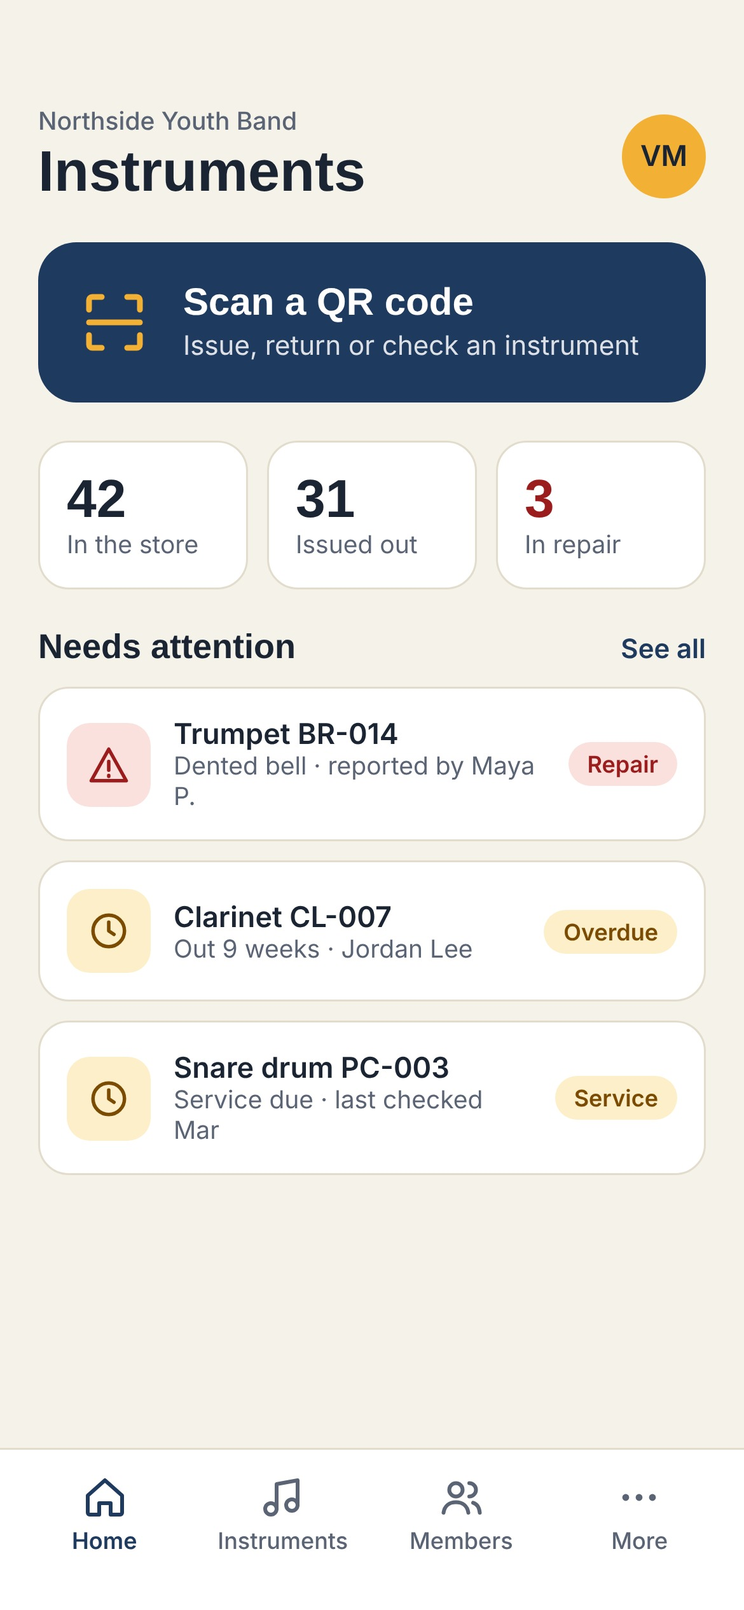
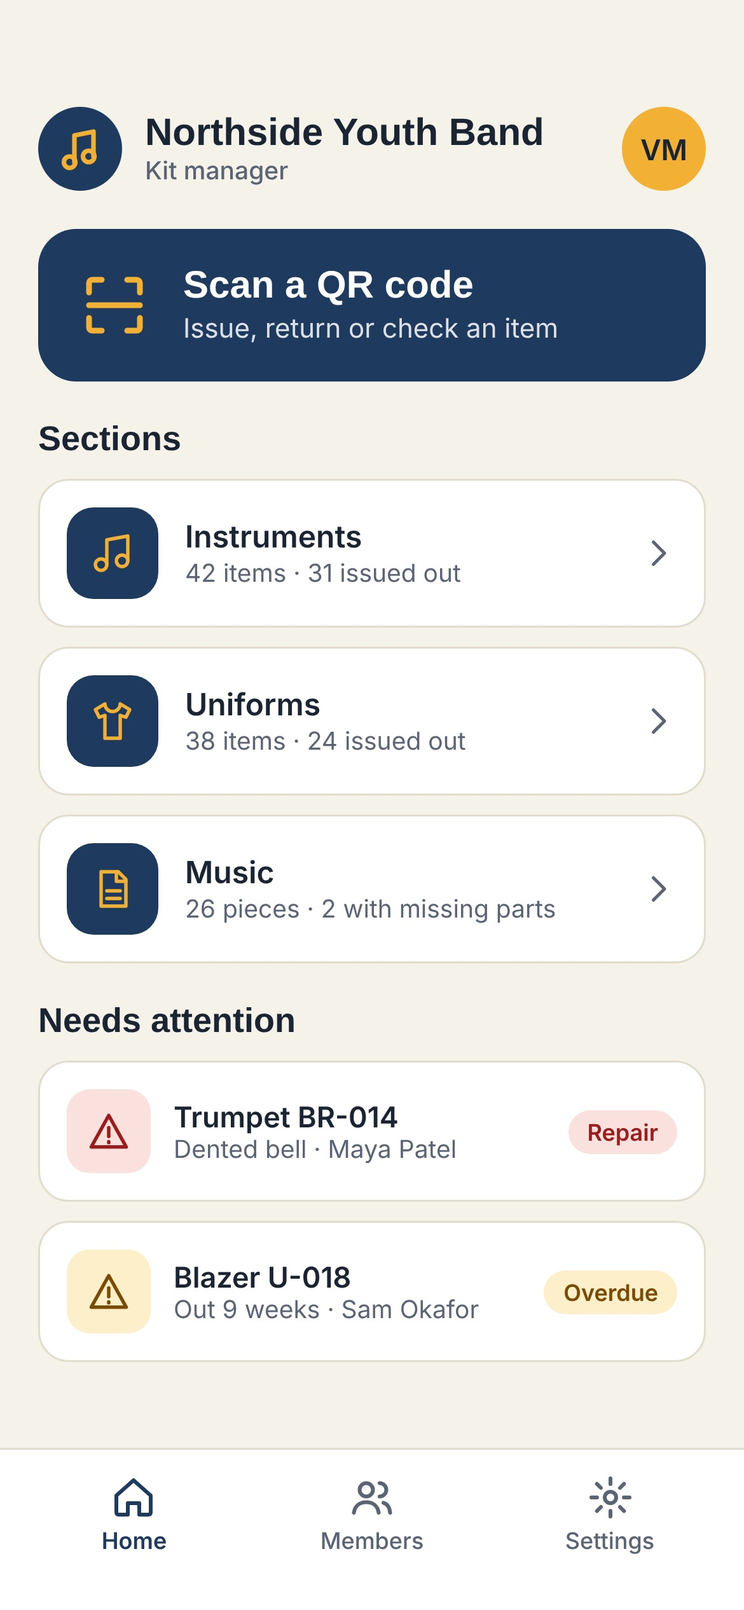
Add Uniforms, Music and Settings mockups
Home now lists the sections and shows the band name and logo. Settings
has band name, logo upload and per-section toggles.

Claude-Session: https://claude.ai/code/session_01YGQcCAHzqe7VMCLBa3f78c

diff --git a/mockups/html/1-home.html b/mockups/html/1-home.html
@@ -2,80 +2,36 @@
 
 <div style="width:390px;height:844px;box-sizing:border-box;display:flex;flex-direction:column;background:#F5F2EA;font-family:Inter,system-ui,sans-serif;color:#1B2433;overflow:hidden">
 <div style="flex:1;min-height:0;padding:56px 20px 0;display:flex;flex-direction:column;gap:20px">
-<div style="display:flex;justify-content:space-between;align-items:center">
-<div>
-<div style="font-size:13px;color:#5B6475;font-weight:500">Northside Youth Band</div>
-<h1 style="margin:2px 0 0;font-family:'Space Grotesk',sans-serif;font-size:30px;line-height:1.1;font-weight:700">Instruments</h1>
+<div style="display:flex;align-items:center;gap:12px">
+<svg width="44" height="44" viewBox="0 0 44 44" role="img" aria-label="Band logo placeholder"><circle cx="22" cy="22" r="22" fill="#1F3A5F"/><path d="M19 29V15l10-2v13" fill="none" stroke="#F2B134" stroke-width="2.4" stroke-linecap="round" stroke-linejoin="round"/><circle cx="16.5" cy="29" r="3" fill="none" stroke="#F2B134" stroke-width="2.4"/><circle cx="26.5" cy="26" r="3" fill="none" stroke="#F2B134" stroke-width="2.4"/></svg>
+<div style="flex:1">
+<div style="font-family:'Space Grotesk',sans-serif;font-size:20px;line-height:1.15;font-weight:700">Northside Youth Band</div>
+<div style="font-size:13px;color:#5B6475;font-weight:500">Kit manager</div>
 </div>
 <div style="width:44px;height:44px;border-radius:22px;background:#F2B134;display:flex;align-items:center;justify-content:center;font-weight:600;font-size:15px">VM</div>
 </div>
-<a href="2-scan.html" style="display:flex;align-items:center;gap:16px;background:#1F3A5F;color:#fff;border-radius:20px;padding:20px;min-height:44px">
+<a href="2-scan.html" style="display:flex;align-items:center;gap:16px;background:#1F3A5F;color:#fff;border-radius:20px;padding:18px 20px;min-height:44px">
 <svg width="40" height="40" viewBox="0 0 24 24" fill="none" stroke="#F2B134" stroke-width="1.8" stroke-linecap="round" stroke-linejoin="round" aria-hidden="true"><path d="M4 8V5a1 1 0 0 1 1-1h3M16 4h3a1 1 0 0 1 1 1v3M20 16v3a1 1 0 0 1-1 1h-3M8 20H5a1 1 0 0 1-1-1v-3"/><path d="M4 12h16"/></svg>
 <div style="flex:1">
 <div style="font-family:'Space Grotesk',sans-serif;font-size:20px;font-weight:700">Scan a QR code</div>
-<div style="font-size:14px;opacity:.85;margin-top:2px">Issue, return or check an instrument</div>
+<div style="font-size:14px;opacity:.85;margin-top:2px">Issue, return or check an item</div>
 </div>
 </a>
-<div style="display:grid;grid-template-columns:repeat(3,minmax(0,1fr));gap:10px">
-<div style="background:#fff;border:1px solid #E2DCCD;border-radius:16px;padding:14px">
-<div style="font-family:'Space Grotesk',sans-serif;font-size:28px;font-weight:700">42</div>
-<div style="font-size:13px;color:#5B6475">In the store</div>
-</div>
-<div style="background:#fff;border:1px solid #E2DCCD;border-radius:16px;padding:14px">
-<div style="font-family:'Space Grotesk',sans-serif;font-size:28px;font-weight:700">31</div>
-<div style="font-size:13px;color:#5B6475">Issued out</div>
-</div>
-<div style="background:#fff;border:1px solid #E2DCCD;border-radius:16px;padding:14px">
-<div style="font-family:'Space Grotesk',sans-serif;font-size:28px;font-weight:700;color:#9B1C1C">3</div>
-<div style="font-size:13px;color:#5B6475">In repair</div>
-</div>
+<div style="display:flex;flex-direction:column;gap:10px">
+<h2 style="margin:0;font-family:'Space Grotesk',sans-serif;font-size:18px;font-weight:700">Sections</h2>
+<a href="3-instrument-record.html" style="display:flex;align-items:center;gap:14px;background:#fff;border:1px solid #E2DCCD;border-radius:16px;padding:14px;min-height:44px"><div style="width:48px;height:48px;border-radius:14px;background:#1F3A5F;display:flex;align-items:center;justify-content:center"><svg width="24" height="24" viewBox="0 0 24 24" fill="none" stroke="#F2B134" stroke-width="1.8" stroke-linecap="round" stroke-linejoin="round" aria-hidden="true"><path d="M9 18V5l11-2v13"/><circle cx="6" cy="18" r="3"/><circle cx="17" cy="16" r="3"/></svg></div><div style="flex:1"><div style="font-weight:600;font-size:16px">Instruments</div><div style="font-size:13px;color:#5B6475;margin-top:2px">42 items · 31 issued out</div></div><svg width="20" height="20" viewBox="0 0 24 24" fill="none" stroke="#5B6475" stroke-width="2" stroke-linecap="round" stroke-linejoin="round" aria-hidden="true"><path d="M9 5l7 7-7 7"/></svg></a>
+<a href="5-uniforms.html" style="display:flex;align-items:center;gap:14px;background:#fff;border:1px solid #E2DCCD;border-radius:16px;padding:14px;min-height:44px"><div style="width:48px;height:48px;border-radius:14px;background:#1F3A5F;display:flex;align-items:center;justify-content:center"><svg width="24" height="24" viewBox="0 0 24 24" fill="none" stroke="#F2B134" stroke-width="1.8" stroke-linecap="round" stroke-linejoin="round" aria-hidden="true"><path d="M8 3L3 6l2 4 3-1v12h8V9l3 1 2-4-5-3a4 4 0 0 1-8 0z"/></svg></div><div style="flex:1"><div style="font-weight:600;font-size:16px">Uniforms</div><div style="font-size:13px;color:#5B6475;margin-top:2px">38 items · 24 issued out</div></div><svg width="20" height="20" viewBox="0 0 24 24" fill="none" stroke="#5B6475" stroke-width="2" stroke-linecap="round" stroke-linejoin="round" aria-hidden="true"><path d="M9 5l7 7-7 7"/></svg></a>
+<a href="6-music.html" style="display:flex;align-items:center;gap:14px;background:#fff;border:1px solid #E2DCCD;border-radius:16px;padding:14px;min-height:44px"><div style="width:48px;height:48px;border-radius:14px;background:#1F3A5F;display:flex;align-items:center;justify-content:center"><svg width="24" height="24" viewBox="0 0 24 24" fill="none" stroke="#F2B134" stroke-width="1.8" stroke-linecap="round" stroke-linejoin="round" aria-hidden="true"><path d="M6 3h9l4 4v14H6z"/><path d="M14 3v5h5M9 13h7M9 17h7"/></svg></div><div style="flex:1"><div style="font-weight:600;font-size:16px">Music</div><div style="font-size:13px;color:#5B6475;margin-top:2px">26 pieces · 2 with missing parts</div></div><svg width="20" height="20" viewBox="0 0 24 24" fill="none" stroke="#5B6475" stroke-width="2" stroke-linecap="round" stroke-linejoin="round" aria-hidden="true"><path d="M9 5l7 7-7 7"/></svg></a>
 </div>
 <div style="display:flex;flex-direction:column;gap:10px">
-<div style="display:flex;justify-content:space-between;align-items:baseline">
 <h2 style="margin:0;font-family:'Space Grotesk',sans-serif;font-size:18px;font-weight:700">Needs attention</h2>
-<span style="font-size:14px;font-weight:600;color:#1F3A5F">See all</span>
-</div>
-<a href="3-instrument-record.html" style="display:flex;align-items:center;gap:12px;background:#fff;border:1px solid #E2DCCD;border-radius:16px;padding:14px;min-height:44px">
-<div style="width:44px;height:44px;border-radius:12px;background:#FBE1DE;display:flex;align-items:center;justify-content:center">
-<svg width="22" height="22" viewBox="0 0 24 24" fill="none" stroke="#9B1C1C" stroke-width="2" stroke-linecap="round" stroke-linejoin="round" aria-hidden="true"><path d="M12 3l10 18H2z"/><path d="M12 10v5M12 18v.5"/></svg>
-</div>
-<div style="flex:1">
-<div style="font-weight:600;font-size:15px">Trumpet BR-014</div>
-<div style="font-size:13px;color:#5B6475">Dented bell · reported by Maya P.</div>
-</div>
-<span style="font-size:12px;font-weight:600;color:#9B1C1C;background:#FBE1DE;border-radius:999px;padding:4px 10px">Repair</span>
-</a>
-<div style="display:flex;align-items:center;gap:12px;background:#fff;border:1px solid #E2DCCD;border-radius:16px;padding:14px;min-height:44px">
-<div style="width:44px;height:44px;border-radius:12px;background:#FDEFC9;display:flex;align-items:center;justify-content:center">
-<svg width="22" height="22" viewBox="0 0 24 24" fill="none" stroke="#7A4B00" stroke-width="2" stroke-linecap="round" stroke-linejoin="round" aria-hidden="true"><circle cx="12" cy="12" r="9"/><path d="M12 7v5l3 2"/></svg>
-</div>
-<div style="flex:1">
-<div style="font-weight:600;font-size:15px">Clarinet CL-007</div>
-<div style="font-size:13px;color:#5B6475">Out 9 weeks · Jordan Lee</div>
-</div>
-<span style="font-size:12px;font-weight:600;color:#7A4B00;background:#FDEFC9;border-radius:999px;padding:4px 10px">Overdue</span>
-</div>
-<div style="display:flex;align-items:center;gap:12px;background:#fff;border:1px solid #E2DCCD;border-radius:16px;padding:14px;min-height:44px">
-<div style="width:44px;height:44px;border-radius:12px;background:#FDEFC9;display:flex;align-items:center;justify-content:center">
-<svg width="22" height="22" viewBox="0 0 24 24" fill="none" stroke="#7A4B00" stroke-width="2" stroke-linecap="round" stroke-linejoin="round" aria-hidden="true"><circle cx="12" cy="12" r="9"/><path d="M12 7v5l3 2"/></svg>
-</div>
-<div style="flex:1">
-<div style="font-weight:600;font-size:15px">Snare drum PC-003</div>
-<div style="font-size:13px;color:#5B6475">Service due · last checked Mar</div>
-</div>
-<span style="font-size:12px;font-weight:600;color:#7A4B00;background:#FDEFC9;border-radius:999px;padding:4px 10px">Service</span>
-</div>
-</div>
-</div>
+<a href="3-instrument-record.html" style="display:flex;align-items:center;gap:12px;background:#fff;border:1px solid #E2DCCD;border-radius:16px;padding:14px;min-height:44px"><div style="width:44px;height:44px;border-radius:12px;background:#FBE1DE;display:flex;align-items:center;justify-content:center"><svg width="22" height="22" viewBox="0 0 24 24" fill="none" stroke="#9B1C1C" stroke-width="2" stroke-linecap="round" stroke-linejoin="round" aria-hidden="true"><path d="M12 3l10 18H2z"/><path d="M12 10v5M12 18v.5"/></svg></div><div style="flex:1"><div style="font-weight:600;font-size:15px">Trumpet BR-014</div><div style="font-size:13px;color:#5B6475">Dented bell · Maya Patel</div></div><span style="font-size:12px;font-weight:600;color:#9B1C1C;background:#FBE1DE;border-radius:999px;padding:4px 10px">Repair</span></a>
+<a href="5-uniforms.html" style="display:flex;align-items:center;gap:12px;background:#fff;border:1px solid #E2DCCD;border-radius:16px;padding:14px;min-height:44px"><div style="width:44px;height:44px;border-radius:12px;background:#FDEFC9;display:flex;align-items:center;justify-content:center"><svg width="22" height="22" viewBox="0 0 24 24" fill="none" stroke="#7A4B00" stroke-width="2" stroke-linecap="round" stroke-linejoin="round" aria-hidden="true"><path d="M12 3l10 18H2z"/><path d="M12 10v5M12 18v.5"/></svg></div><div style="flex:1"><div style="font-weight:600;font-size:15px">Blazer U-018</div><div style="font-size:13px;color:#5B6475">Out 9 weeks · Sam Okafor</div></div><span style="font-size:12px;font-weight:600;color:#7A4B00;background:#FDEFC9;border-radius:999px;padding:4px 10px">Overdue</span></a>
+</div></div>
 <nav style="display:flex;border-top:1px solid #E2DCCD;background:#fff;padding:8px 8px 24px">
-<a href="1-home.html" style="flex:1;min-height:52px;display:flex;flex-direction:column;align-items:center;justify-content:center;gap:3px;color:#1F3A5F;font-size:12px;font-weight:600">
-<svg width="24" height="24" viewBox="0 0 24 24" fill="none" stroke="currentColor" stroke-width="2" stroke-linecap="round" stroke-linejoin="round" aria-hidden="true"><path d="M3 11l9-8 9 8v9a1 1 0 0 1-1 1h-5v-6H9v6H4a1 1 0 0 1-1-1z"/></svg>Home</a>
-<a href="3-instrument-record.html" style="flex:1;min-height:52px;display:flex;flex-direction:column;align-items:center;justify-content:center;gap:3px;color:#5B6475;font-size:12px;font-weight:500">
-<svg width="24" height="24" viewBox="0 0 24 24" fill="none" stroke="currentColor" stroke-width="2" stroke-linecap="round" stroke-linejoin="round" aria-hidden="true"><path d="M9 18V5l11-2v13"/><circle cx="6" cy="18" r="3"/><circle cx="17" cy="16" r="3"/></svg>Instruments</a>
-<a href="4-issue-to-member.html" style="flex:1;min-height:52px;display:flex;flex-direction:column;align-items:center;justify-content:center;gap:3px;color:#5B6475;font-size:12px;font-weight:500">
-<svg width="24" height="24" viewBox="0 0 24 24" fill="none" stroke="currentColor" stroke-width="2" stroke-linecap="round" stroke-linejoin="round" aria-hidden="true"><circle cx="9" cy="8" r="3.5"/><path d="M2.5 20c.5-3.5 3-5.5 6.5-5.5s6 2 6.5 5.5"/><path d="M16 4.5a3.5 3.5 0 0 1 0 7M18 14.8c2 .6 3.2 2.4 3.5 5.2"/></svg>Members</a>
-<div style="flex:1;min-height:52px;display:flex;flex-direction:column;align-items:center;justify-content:center;gap:3px;color:#5B6475;font-size:12px;font-weight:500">
-<svg width="24" height="24" viewBox="0 0 24 24" fill="currentColor" aria-hidden="true"><circle cx="5" cy="12" r="1.8"/><circle cx="12" cy="12" r="1.8"/><circle cx="19" cy="12" r="1.8"/></svg>More</div>
+<a href="1-home.html" style="flex:1;min-height:52px;display:flex;flex-direction:column;align-items:center;justify-content:center;gap:3px;color:#1F3A5F;font-size:12px;font-weight:600"><svg width="24" height="24" viewBox="0 0 24 24" fill="none" stroke="currentColor" stroke-width="2" stroke-linecap="round" stroke-linejoin="round" aria-hidden="true"><path d="M3 11l9-8 9 8v9a1 1 0 0 1-1 1h-5v-6H9v6H4a1 1 0 0 1-1-1z"/></svg>Home</a>
+<a href="4-issue-to-member.html" style="flex:1;min-height:52px;display:flex;flex-direction:column;align-items:center;justify-content:center;gap:3px;color:#5B6475;font-size:12px;font-weight:500"><svg width="24" height="24" viewBox="0 0 24 24" fill="none" stroke="currentColor" stroke-width="2" stroke-linecap="round" stroke-linejoin="round" aria-hidden="true"><circle cx="9" cy="8" r="3.5"/><path d="M2.5 20c.5-3.5 3-5.5 6.5-5.5s6 2 6.5 5.5"/><path d="M16 4.5a3.5 3.5 0 0 1 0 7M18 14.8c2 .6 3.2 2.4 3.5 5.2"/></svg>Members</a>
+<a href="7-settings.html" style="flex:1;min-height:52px;display:flex;flex-direction:column;align-items:center;justify-content:center;gap:3px;color:#5B6475;font-size:12px;font-weight:500"><svg width="24" height="24" viewBox="0 0 24 24" fill="none" stroke="currentColor" stroke-width="2" stroke-linecap="round" stroke-linejoin="round" aria-hidden="true"><circle cx="12" cy="12" r="3"/><path d="M12 2v3M12 19v3M2 12h3M19 12h3M4.9 4.9l2.1 2.1M17 17l2.1 2.1M4.9 19.1L7 17M17 7l2.1-2.1"/></svg>Settings</a>
 </nav>
 </div>
 </body></html>

diff --git a/mockups/html/7-settings.html b/mockups/html/7-settings.html
@@ -1,0 +1,40 @@
+<!doctype html><html><head><meta charset="utf-8"><link rel="preconnect" href="https://fonts.googleapis.com"><link href="https://fonts.googleapis.com/css2?family=Inter:wght@400;500;600&family=Space+Grotesk:wght@500;700&display=swap" rel="stylesheet"><style>body{margin:0}a{color:inherit;text-decoration:none}</style></head><body>
+
+<div style="width:390px;height:844px;box-sizing:border-box;display:flex;flex-direction:column;background:#F5F2EA;font-family:Inter,system-ui,sans-serif;color:#1B2433;overflow:hidden">
+<div style="flex:1;min-height:0;padding:56px 20px 0;display:flex;flex-direction:column;gap:16px">
+<h1 style="margin:0;font-family:'Space Grotesk',sans-serif;font-size:30px;line-height:1.1;font-weight:700">Settings</h1>
+<div style="background:#fff;border:1px solid #E2DCCD;border-radius:16px;padding:16px;display:flex;flex-direction:column;gap:14px">
+<div style="font-family:'Space Grotesk',sans-serif;font-size:16px;font-weight:700">Your band</div>
+<div>
+<label for="bandname" style="display:block;font-size:13px;font-weight:600;color:#5B6475;margin-bottom:6px">Band name</label>
+<input id="bandname" type="text" value="Northside Youth Band" style="width:100%;box-sizing:border-box;min-height:48px;border:1px solid #C9C2B0;border-radius:12px;padding:0 14px;font:500 16px Inter,system-ui,sans-serif;color:#1B2433;background:#fff">
+</div>
+<div>
+<div style="font-size:13px;font-weight:600;color:#5B6475;margin-bottom:6px">Band logo</div>
+<div style="display:flex;align-items:center;gap:14px">
+<div style="width:64px;height:64px;border-radius:32px;background:#F5F2EA;border:1px solid #E2DCCD;display:flex;align-items:center;justify-content:center"><svg width="44" height="44" viewBox="0 0 44 44" role="img" aria-label="Band logo placeholder"><circle cx="22" cy="22" r="22" fill="#1F3A5F"/><path d="M19 29V15l10-2v13" fill="none" stroke="#F2B134" stroke-width="2.4" stroke-linecap="round" stroke-linejoin="round"/><circle cx="16.5" cy="29" r="3" fill="none" stroke="#F2B134" stroke-width="2.4"/><circle cx="26.5" cy="26" r="3" fill="none" stroke="#F2B134" stroke-width="2.4"/></svg></div>
+<div style="display:flex;gap:8px">
+<button style="min-height:44px;padding:0 16px;border-radius:12px;border:0;background:#1F3A5F;color:#fff;font:600 14px Inter,system-ui,sans-serif">Upload logo</button>
+<button style="min-height:44px;padding:0 14px;border-radius:12px;border:1px solid #C9C2B0;background:#fff;color:#1B2433;font:600 14px Inter,system-ui,sans-serif">Remove</button>
+</div>
+</div>
+<div style="font-size:12px;color:#5B6475;margin-top:8px">PNG or JPG. A square image works best.</div>
+</div>
+</div>
+<div style="background:#fff;border:1px solid #E2DCCD;border-radius:16px;padding:16px 16px 6px">
+<div style="font-family:'Space Grotesk',sans-serif;font-size:16px;font-weight:700">Sections to track</div>
+<div style="font-size:13px;color:#5B6475;margin:4px 0 6px;line-height:1.4">Switch off anything you don't need. Changes save automatically, and turning one back on brings its records back.</div>
+<div style="display:flex;align-items:center;gap:12px;padding:10px 0;border-bottom:1px solid #EEE9DC"><div style="flex:1"><div style="font-size:15px;font-weight:600">Instruments</div><div style="font-size:13px;color:#5B6475;margin-top:2px">QR codes, issuing, repairs</div></div><button role="switch" aria-checked="true" aria-label="Show Instruments" style="width:60px;height:44px;border:0;background:none;padding:0;display:flex;align-items:center;justify-content:center"><span style="position:relative;display:block;width:52px;height:32px;border-radius:16px;background:#1F3A5F"><span style="position:absolute;top:3px;right:3px;width:26px;height:26px;border-radius:13px;background:#fff"></span></span></button></div>
+<div style="display:flex;align-items:center;gap:12px;padding:10px 0;border-bottom:1px solid #EEE9DC"><div style="flex:1"><div style="font-size:15px;font-weight:600">Uniforms</div><div style="font-size:13px;color:#5B6475;margin-top:2px">Sizes, issuing, returns</div></div><button role="switch" aria-checked="true" aria-label="Show Uniforms" style="width:60px;height:44px;border:0;background:none;padding:0;display:flex;align-items:center;justify-content:center"><span style="position:relative;display:block;width:52px;height:32px;border-radius:16px;background:#1F3A5F"><span style="position:absolute;top:3px;right:3px;width:26px;height:26px;border-radius:13px;background:#fff"></span></span></button></div>
+<div style="display:flex;align-items:center;gap:12px;padding:10px 0;border-bottom:1px solid #EEE9DC"><div style="flex:1"><div style="font-size:15px;font-weight:600">Music</div><div style="font-size:13px;color:#5B6475;margin-top:2px">Library, parts, folders</div></div><button role="switch" aria-checked="true" aria-label="Show Music" style="width:60px;height:44px;border:0;background:none;padding:0;display:flex;align-items:center;justify-content:center"><span style="position:relative;display:block;width:52px;height:32px;border-radius:16px;background:#1F3A5F"><span style="position:absolute;top:3px;right:3px;width:26px;height:26px;border-radius:13px;background:#fff"></span></span></button></div>
+<div style="display:flex;align-items:center;gap:12px;padding:10px 0"><div style="flex:1"><div style="font-size:15px;font-weight:600">Accessories and equipment</div><div style="font-size:13px;color:#5B6475;margin-top:2px">Stands, cases, amps, drum kit</div></div><button role="switch" aria-checked="false" aria-label="Show Accessories and equipment" style="width:60px;height:44px;border:0;background:none;padding:0;display:flex;align-items:center;justify-content:center"><span style="position:relative;display:block;width:52px;height:32px;border-radius:16px;background:#6B7280"><span style="position:absolute;top:3px;left:3px;width:26px;height:26px;border-radius:13px;background:#fff"></span></span></button></div>
+</div>
+
+</div>
+<nav style="display:flex;border-top:1px solid #E2DCCD;background:#fff;padding:8px 8px 24px">
+<a href="1-home.html" style="flex:1;min-height:52px;display:flex;flex-direction:column;align-items:center;justify-content:center;gap:3px;color:#5B6475;font-size:12px;font-weight:500"><svg width="24" height="24" viewBox="0 0 24 24" fill="none" stroke="currentColor" stroke-width="2" stroke-linecap="round" stroke-linejoin="round" aria-hidden="true"><path d="M3 11l9-8 9 8v9a1 1 0 0 1-1 1h-5v-6H9v6H4a1 1 0 0 1-1-1z"/></svg>Home</a>
+<a href="4-issue-to-member.html" style="flex:1;min-height:52px;display:flex;flex-direction:column;align-items:center;justify-content:center;gap:3px;color:#5B6475;font-size:12px;font-weight:500"><svg width="24" height="24" viewBox="0 0 24 24" fill="none" stroke="currentColor" stroke-width="2" stroke-linecap="round" stroke-linejoin="round" aria-hidden="true"><circle cx="9" cy="8" r="3.5"/><path d="M2.5 20c.5-3.5 3-5.5 6.5-5.5s6 2 6.5 5.5"/><path d="M16 4.5a3.5 3.5 0 0 1 0 7M18 14.8c2 .6 3.2 2.4 3.5 5.2"/></svg>Members</a>
+<a href="7-settings.html" style="flex:1;min-height:52px;display:flex;flex-direction:column;align-items:center;justify-content:center;gap:3px;color:#1F3A5F;font-size:12px;font-weight:600"><svg width="24" height="24" viewBox="0 0 24 24" fill="none" stroke="currentColor" stroke-width="2" stroke-linecap="round" stroke-linejoin="round" aria-hidden="true"><circle cx="12" cy="12" r="3"/><path d="M12 2v3M12 19v3M2 12h3M19 12h3M4.9 4.9l2.1 2.1M17 17l2.1 2.1M4.9 19.1L7 17M17 7l2.1-2.1"/></svg>Settings</a>
+</nav>
+</div>
+</body></html>

diff --git a/mockups/html/6-music.html b/mockups/html/6-music.html
@@ -1,0 +1,22 @@
+<!doctype html><html><head><meta charset="utf-8"><link rel="preconnect" href="https://fonts.googleapis.com"><link href="https://fonts.googleapis.com/css2?family=Inter:wght@400;500;600&family=Space+Grotesk:wght@500;700&display=swap" rel="stylesheet"><style>body{margin:0}a{color:inherit;text-decoration:none}</style></head><body>
+
+<div style="width:390px;height:844px;box-sizing:border-box;display:flex;flex-direction:column;background:#F5F2EA;font-family:Inter,system-ui,sans-serif;color:#1B2433;overflow:hidden">
+<div style="flex:1;min-height:0;padding:56px 20px 0;display:flex;flex-direction:column;gap:14px"><div style="display:flex;align-items:center;gap:12px">
+<a href="1-home.html" aria-label="Back" style="width:44px;height:44px;border-radius:22px;background:#fff;border:1px solid #E2DCCD;display:flex;align-items:center;justify-content:center"><svg width="22" height="22" viewBox="0 0 24 24" fill="none" stroke="#1B2433" stroke-width="2" stroke-linecap="round" stroke-linejoin="round" aria-hidden="true"><path d="M15 5l-7 7 7 7"/></svg></a>
+<h1 style="margin:0;font-family:'Space Grotesk',sans-serif;font-size:26px;font-weight:700">Music</h1></div>
+<div style="display:flex;align-items:center;gap:10px;background:#fff;border:1px solid #C9C2B0;border-radius:14px;padding:0 14px;min-height:48px"><svg width="20" height="20" viewBox="0 0 24 24" fill="none" stroke="#5B6475" stroke-width="2" stroke-linecap="round" aria-hidden="true"><circle cx="11" cy="11" r="7"/><path d="M20 20l-4-4"/></svg><span style="font-size:15px;color:#5B6475">Search title or composer</span></div>
+<div style="display:flex;gap:8px">
+<span style="font-size:14px;font-weight:600;color:#fff;background:#1F3A5F;border-radius:999px;padding:0 16px;min-height:44px;box-sizing:border-box;display:inline-flex;align-items:center">Library 26</span>
+<span style="font-size:14px;font-weight:500;color:#1B2433;background:#fff;border:1px solid #C9C2B0;border-radius:999px;padding:0 16px;min-height:44px;box-sizing:border-box;display:inline-flex;align-items:center">Folders</span>
+<span style="font-size:14px;font-weight:500;color:#1B2433;background:#fff;border:1px solid #C9C2B0;border-radius:999px;padding:0 16px;min-height:44px;box-sizing:border-box;display:inline-flex;align-items:center">Missing 2</span>
+</div>
+<div style="background:#fff;border:1px solid #E2DCCD;border-radius:16px;overflow:hidden">
+<div style="display:flex;align-items:center;gap:12px;padding:12px 14px;min-height:44px;border-bottom:1px solid #EEE9DC"><div style="flex:1"><div style="font-weight:600;font-size:15px">Greensleeves</div><div style="font-size:13px;color:#5B6475;margin-top:2px">Traditional · Grade 2 · 15 copies</div></div><span style="font-size:12px;font-weight:600;color:#14603C;background:#DDF1E4;border-radius:999px;padding:4px 10px">All in</span></div>
+<div style="display:flex;align-items:center;gap:12px;padding:12px 14px;min-height:44px;border-bottom:1px solid #EEE9DC"><div style="flex:1"><div style="font-weight:600;font-size:15px">Ode to Joy</div><div style="font-size:13px;color:#5B6475;margin-top:2px">Beethoven · Grade 1 · 20 copies</div></div><span style="font-size:12px;font-weight:600;color:#1F3A5F;background:#DCE6F5;border-radius:999px;padding:4px 10px">4 out</span></div>
+<div style="display:flex;align-items:center;gap:12px;padding:12px 14px;min-height:44px;border-bottom:1px solid #EEE9DC"><div style="flex:1"><div style="font-weight:600;font-size:15px">Stars and Stripes Forever</div><div style="font-size:13px;color:#5B6475;margin-top:2px">Sousa · Grade 4 · 12 copies</div></div><span style="font-size:12px;font-weight:600;color:#7A4B00;background:#FDEFC9;border-radius:999px;padding:4px 10px">3 missing</span></div>
+<div style="display:flex;align-items:center;gap:12px;padding:12px 14px;min-height:44px;border-bottom:1px solid #EEE9DC"><div style="flex:1"><div style="font-weight:600;font-size:15px">Amazing Grace</div><div style="font-size:13px;color:#5B6475;margin-top:2px">Traditional · Grade 2 · 15 copies</div></div><span style="font-size:12px;font-weight:600;color:#14603C;background:#DDF1E4;border-radius:999px;padding:4px 10px">All in</span></div>
+<div style="display:flex;align-items:center;gap:12px;padding:12px 14px;min-height:44px;border-bottom:1px solid #EEE9DC"><div style="flex:1"><div style="font-weight:600;font-size:15px">Washington Post March</div><div style="font-size:13px;color:#5B6475;margin-top:2px">Sousa · Grade 3 · 14 copies</div></div><span style="font-size:12px;font-weight:600;color:#7A4B00;background:#FDEFC9;border-radius:999px;padding:4px 10px">1 missing</span></div>
+<div style="display:flex;align-items:center;gap:12px;padding:12px 14px;min-height:44px;border-bottom:1px solid #EEE9DC"><div style="flex:1"><div style="font-weight:600;font-size:15px">Danny Boy</div><div style="font-size:13px;color:#5B6475;margin-top:2px">Traditional · Grade 2 · 16 copies</div></div><span style="font-size:12px;font-weight:600;color:#1F3A5F;background:#DCE6F5;border-radius:999px;padding:4px 10px">6 out</span></div>
+</div></div>
+<div style="padding:12px 20px 36px;background:#fff;border-top:1px solid #E2DCCD;display:flex;gap:10px"><a href="2-scan.html" style="flex:1;min-height:52px;border-radius:16px;background:#1F3A5F;color:#fff;display:flex;align-items:center;justify-content:center;font-weight:600;font-size:16px">Scan folder or part</a><div style="min-height:52px;padding:0 18px;border-radius:16px;background:#fff;border:1px solid #C9C2B0;display:flex;align-items:center;font-weight:600;font-size:16px">Add piece</div></div></div>
+</body></html>

diff --git a/mockups/html/5-uniforms.html b/mockups/html/5-uniforms.html
@@ -1,0 +1,22 @@
+<!doctype html><html><head><meta charset="utf-8"><link rel="preconnect" href="https://fonts.googleapis.com"><link href="https://fonts.googleapis.com/css2?family=Inter:wght@400;500;600&family=Space+Grotesk:wght@500;700&display=swap" rel="stylesheet"><style>body{margin:0}a{color:inherit;text-decoration:none}</style></head><body>
+
+<div style="width:390px;height:844px;box-sizing:border-box;display:flex;flex-direction:column;background:#F5F2EA;font-family:Inter,system-ui,sans-serif;color:#1B2433;overflow:hidden">
+<div style="flex:1;min-height:0;padding:56px 20px 0;display:flex;flex-direction:column;gap:14px"><div style="display:flex;align-items:center;gap:12px">
+<a href="1-home.html" aria-label="Back" style="width:44px;height:44px;border-radius:22px;background:#fff;border:1px solid #E2DCCD;display:flex;align-items:center;justify-content:center"><svg width="22" height="22" viewBox="0 0 24 24" fill="none" stroke="#1B2433" stroke-width="2" stroke-linecap="round" stroke-linejoin="round" aria-hidden="true"><path d="M15 5l-7 7 7 7"/></svg></a>
+<h1 style="margin:0;font-family:'Space Grotesk',sans-serif;font-size:26px;font-weight:700">Uniforms</h1></div>
+<div style="display:flex;align-items:center;gap:10px;background:#fff;border:1px solid #C9C2B0;border-radius:14px;padding:0 14px;min-height:48px"><svg width="20" height="20" viewBox="0 0 24 24" fill="none" stroke="#5B6475" stroke-width="2" stroke-linecap="round" aria-hidden="true"><circle cx="11" cy="11" r="7"/><path d="M20 20l-4-4"/></svg><span style="font-size:15px;color:#5B6475">Search item, size or member</span></div>
+<div style="display:flex;gap:8px">
+<span style="font-size:14px;font-weight:600;color:#fff;background:#1F3A5F;border-radius:999px;padding:0 16px;min-height:44px;box-sizing:border-box;display:inline-flex;align-items:center">All 38</span>
+<span style="font-size:14px;font-weight:500;color:#1B2433;background:#fff;border:1px solid #C9C2B0;border-radius:999px;padding:0 16px;min-height:44px;box-sizing:border-box;display:inline-flex;align-items:center">Issued 24</span>
+<span style="font-size:14px;font-weight:500;color:#1B2433;background:#fff;border:1px solid #C9C2B0;border-radius:999px;padding:0 16px;min-height:44px;box-sizing:border-box;display:inline-flex;align-items:center">In store 14</span>
+</div>
+<div style="background:#fff;border:1px solid #E2DCCD;border-radius:16px;overflow:hidden">
+<div style="display:flex;align-items:center;gap:12px;padding:12px 14px;min-height:44px;border-bottom:1px solid #EEE9DC"><div style="flex:1"><div style="font-weight:600;font-size:15px">Blazer U-021</div><div style="font-size:13px;color:#5B6475;margin-top:2px">Size 12 · Amelia Rhodes</div></div><span style="font-size:12px;font-weight:600;color:#1F3A5F;background:#DCE6F5;border-radius:999px;padding:4px 10px">Issued</span></div>
+<div style="display:flex;align-items:center;gap:12px;padding:12px 14px;min-height:44px;border-bottom:1px solid #EEE9DC"><div style="flex:1"><div style="font-weight:600;font-size:15px">Blazer U-022</div><div style="font-size:13px;color:#5B6475;margin-top:2px">Size 14 · In the store</div></div><span style="font-size:12px;font-weight:600;color:#14603C;background:#DDF1E4;border-radius:999px;padding:4px 10px">Available</span></div>
+<div style="display:flex;align-items:center;gap:12px;padding:12px 14px;min-height:44px;border-bottom:1px solid #EEE9DC"><div style="flex:1"><div style="font-weight:600;font-size:15px">Blazer U-018</div><div style="font-size:13px;color:#5B6475;margin-top:2px">Size 10 · Sam Okafor · out 9 weeks</div></div><span style="font-size:12px;font-weight:600;color:#7A4B00;background:#FDEFC9;border-radius:999px;padding:4px 10px">Overdue</span></div>
+<div style="display:flex;align-items:center;gap:12px;padding:12px 14px;min-height:44px;border-bottom:1px solid #EEE9DC"><div style="flex:1"><div style="font-weight:600;font-size:15px">Band hat U-045</div><div style="font-size:13px;color:#5B6475;margin-top:2px">Size M · Jordan Lee</div></div><span style="font-size:12px;font-weight:600;color:#1F3A5F;background:#DCE6F5;border-radius:999px;padding:4px 10px">Issued</span></div>
+<div style="display:flex;align-items:center;gap:12px;padding:12px 14px;min-height:44px;border-bottom:1px solid #EEE9DC"><div style="flex:1"><div style="font-weight:600;font-size:15px">Tie U-060</div><div style="font-size:13px;color:#5B6475;margin-top:2px">One size · In the store</div></div><span style="font-size:12px;font-weight:600;color:#14603C;background:#DDF1E4;border-radius:999px;padding:4px 10px">Available</span></div>
+<div style="display:flex;align-items:center;gap:12px;padding:12px 14px;min-height:44px;border-bottom:1px solid #EEE9DC"><div style="flex:1"><div style="font-weight:600;font-size:15px">Trousers U-033</div><div style="font-size:13px;color:#5B6475;margin-top:2px">Waist 32 · In the store</div></div><span style="font-size:12px;font-weight:600;color:#14603C;background:#DDF1E4;border-radius:999px;padding:4px 10px">Available</span></div>
+</div></div>
+<div style="padding:12px 20px 36px;background:#fff;border-top:1px solid #E2DCCD;display:flex;gap:10px"><a href="2-scan.html" style="flex:1;min-height:52px;border-radius:16px;background:#1F3A5F;color:#fff;display:flex;align-items:center;justify-content:center;font-weight:600;font-size:16px">Scan to issue or return</a><div style="min-height:52px;padding:0 18px;border-radius:16px;background:#fff;border:1px solid #C9C2B0;display:flex;align-items:center;font-weight:600;font-size:16px">Add item</div></div></div>
+</body></html>

diff --git a/README.md b/README.md
@@ -8,7 +8,7 @@ Design mockups only, with sample data. No application code yet.
 
 ## Mockups
 
-Four phone screens in `mockups/`:
+Seven phone screens in `mockups/`:
 
 | Screen | Image | Page |
 | --- | --- | --- |
@@ -16,5 +16,10 @@ Four phone screens in `mockups/`:
 | Scan QR | `images/2-scan.jpg` | `html/2-scan.html` |
 | Instrument record | `images/3-instrument-record.jpg` | `html/3-instrument-record.html` |
 | Issue to member | `images/4-issue-to-member.jpg` | `html/4-issue-to-member.html` |
+| Uniforms | `images/5-uniforms.jpg` | `html/5-uniforms.html` |
+| Music | `images/6-music.jpg` | `html/6-music.html` |
+| Settings | `images/7-settings.jpg` | `html/7-settings.html` |
+
+Sections (Instruments, Uniforms, Music, and optional Accessories and equipment) can each be switched on or off in Settings, which also holds the band name and logo.
 
 The HTML pages are standalone and link to each other, so you can open `1-home.html` in a browser and click through. They are sized for a 390×844 phone screen.
